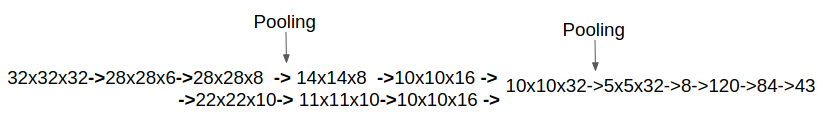
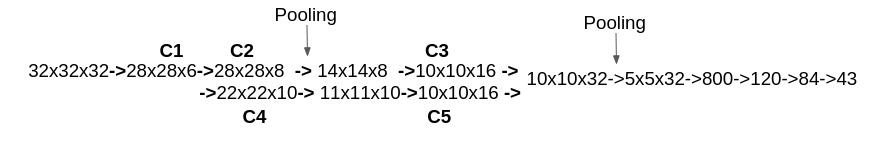
README update

diff --git a/README.md b/README.md
@@ -1,58 +1,174 @@
-## Project: Build a Traffic Sign Recognition Program
+
+# Traffic Sign Recognition
 [![Udacity - Self-Driving Car NanoDegree](https://s3.amazonaws.com/udacity-sdc/github/shield-carnd.svg)](http://www.udacity.com/drive)
 
-Overview
----
-In this project, you will use what you've learned about deep neural networks and convolutional neural networks to classify traffic signs. You will train and validate a model so it can classify traffic sign images using the [German Traffic Sign Dataset](http://benchmark.ini.rub.de/?section=gtsrb&subsection=dataset). After the model is trained, you will then try out your model on images of German traffic signs that you find on the web.
 
-We have included an Ipython notebook that contains further instructions 
-and starter code. Be sure to download the [Ipython notebook](https://github.com/udacity/CarND-Traffic-Sign-Classifier-Project/blob/master/Traffic_Sign_Classifier.ipynb). 
+## Project 3 (Self-Driving Car Engineer - Udacity)
 
-We also want you to create a detailed writeup of the project. Check out the [writeup template](https://github.com/udacity/CarND-Traffic-Sign-Classifier-Project/blob/master/writeup_template.md) for this project and use it as a starting point for creating your own writeup. The writeup can be either a markdown file or a pdf document.
 
-To meet specifications, the project will require submitting three files: 
-* the Ipython notebook with the code
-* the code exported as an html file
-* a writeup report either as a markdown or pdf file 
 
-Creating a Great Writeup
----
-A great writeup should include the [rubric points](https://review.udacity.com/#!/rubrics/481/view) as well as your description of how you addressed each point.  You should include a detailed description of the code used in each step (with line-number references and code snippets where necessary), and links to other supporting documents or external references.  You should include images in your writeup to demonstrate how your code works with examples.  
 
-All that said, please be concise!  We're not looking for you to write a book here, just a brief description of how you passed each rubric point, and references to the relevant code :). 
+**Build a Traffic Sign Recognition Project**
 
-You're not required to use markdown for your writeup.  If you use another method please just submit a pdf of your writeup.
-
-The Project
----
 The goals / steps of this project are the following:
-* Load the data set
+* Load the data set (see below for links to the project data set)
 * Explore, summarize and visualize the data set
 * Design, train and test a model architecture
 * Use the model to make predictions on new images
 * Analyze the softmax probabilities of the new images
 * Summarize the results with a written report
 
-### Dependencies
-This lab requires:
 
-* [CarND Term1 Starter Kit](https://github.com/udacity/CarND-Term1-Starter-Kit)
+[//]: # (Image References)
 
-The lab environment can be created with CarND Term1 Starter Kit. Click [here](https://github.com/udacity/CarND-Term1-Starter-Kit/blob/master/README.md) for the details.
+[image1]: ./exploratory.png "Visualization"
+[image2]: ./initial_histo.png "Initial Histogram"
+[image3]: ./augment.png "Augment"
+[image4]: ./final_histo.png "Final Histogram"
+[image5]: ./Architecture.png "Architecture"
+[image6]: ./examples/placeholder.png "Traffic Sign 3"
+[image7]: ./examples/placeholder.png "Traffic Sign 4"
+[image8]: ./examples/placeholder.png "Traffic Sign 5"
 
-### Dataset and Repository
+Here is a link to my [project code](./Traffic_Sign_Classifier.ipynb)
 
-1. Download the data set. The classroom has a link to the data set in the "Project Instructions" content. This is a pickled dataset in which we've already resized the images to 32x32. It contains a training, validation and test set.
-2. Clone the project, which contains the Ipython notebook and the writeup template.
-```sh
-git clone https://github.com/udacity/CarND-Traffic-Sign-Classifier-Project
-cd CarND-Traffic-Sign-Classifier-Project
-jupyter notebook Traffic_Sign_Classifier.ipynb
-```
+### Data Set Summary & Exploration
 
-### Requirements for Submission
-Follow the instructions in the `Traffic_Sign_Classifier.ipynb` notebook and write the project report using the writeup template as a guide, `writeup_template.md`. Submit the project code and writeup document.
+#### 1. Summary of the data set.
 
-## How to write a README
-A well written README file can enhance your project and portfolio.  Develop your abilities to create professional README files by completing [this free course](https://www.udacity.com/course/writing-readmes--ud777).
+The files provided contained training and validation datasets, initially: 
+
+* The size of training set is 34799
+* The size of the validation set is 12630
+* The shape of a traffic sign image (RGB) is (32, 32, 3) 
+* The number of unique classes/labels in the data set is 43
+
+#### 2. Include an exploratory visualization of the dataset.
+
+Here is an exploratory visualization of the data set. On top of each image you can see the label corresponding to the traffic sign, you can find the meaning of each one by looking at the file [signnames.csv][./signnames.csv]
+
+![alt text][image1]
+
+I plotted the initial distribution of the labels to verify how balanced they are. 
+
+![alt text][image1]
+
+
+### Design and Test a Model Architecture
+
+#### 1.  Image data preprocessing. 
+
+As a first step, I decided to balance the classes by applying data augmentation techniques as, flipping, rotation, saturation modification and light manipulation. The main idea behind this process is to have nearly 1500 images per label. Labels with less than 1500 images were augmented to reach that number 25% per each technique.
+Here is an example of a traffic sign image with different augmentation techniques.
+
+![alt text][image3]
+
+After applying the data aumentation, the histogram of the training set looks like this: 
+
+![alt text][image4]
+This step takes quite a lot of time since we're trying to have an equal number of samples per label.
+
+I tested a CNN architecture using RGB images and I realised I needed a larger network and hence the training time would be too much for my computer. So, I decided to convert the images to grayscale.
+
+As the last step, I normalized the image data to change the values of the images in the dataset to use a common scale, and have a distribution similar to a gaussian without distorting differences in the ranges of values or losing information.
+
+#### 2. Describe what your final model architecture looks like including model type, layers, layer sizes, connectivity, etc.) Consider including a diagram and/or table describing the final model.
+
+My final model consisted of the following layers:
+![alt text][image5]
+
+| Layer         		|     Description	        					| 
+|:---------------------:|:---------------------------------------------:| 
+| Input         		| 32x32x1 Gray image   							| 
+| C1 Convolution 5x5     | 1x1 stride, valid padding, outputs 28x28x6 	|
+| RELU					|		|
+|C2 Convolution 1x1 | 1x1 stride, valid padding, outputs 28x28x8 |
+|RELU
+| Max pooling	| 2x2 stride,  outputs 14x14x8 				|
+|C3 Convolution 5x5  | 1x1 stride, valid padding, outputs 10x10x16  | 
+| RELU |  |
+|C4 Convolution 7x7	| 1x1 stride, valid padding, outputs 22x22x10| |
+RELU||
+|Max pooling | 2x2 stride,  outputs 11x11x10|
+| C5  Convolution 2x2   | 1x1 stride, valid padding, outputs 10x10x16   |
+|RELU | |
+|Concatenation  | C5 and C3, outputs 10x10x32 |
+| Max pooling| 2x2 stride,  outputs 5x5x32 	|
+|Flatten| outputs 800|
+|Fully connected | outputs 120|
+|RELU|
+|Fully connected| outputs 84 |
+| Fully connected | outputs 43        									|
+| Softmax				|         								
+ 
+
+
+#### 3. Model training. The discussion can include the type of optimizer, the batch size, number of epochs and any hyperparameters such as learning rate.
+
+To train the model, I used an learning rate of 0.001 with and Adam Optimizer, based on literature Adam learns the fastes, while it is more stable than the other optimizers (it doesn’t suffer any major decreases in accuracy).
+
+
+
+
+
+#### 4. Describe the approach taken for finding a solution and getting the validation set accuracy to be at least 0.93. Include in the discussion the results on the training, validation and test sets and where in the code these were calculated. Your approach may have been an iterative process, in which case, outline the steps you took to get to the final solution and why you chose those steps. Perhaps your solution involved an already well known implementation or architecture. In this case, discuss why you think the architecture is suitable for the current problem.
+
+My final model results were:
+* training set accuracy of ?
+* validation set accuracy of ? 
+* test set accuracy of ?
+
+If an iterative approach was chosen:
+* What was the first architecture that was tried and why was it chosen?
+* What were some problems with the initial architecture?
+* How was the architecture adjusted and why was it adjusted? Typical adjustments could include choosing a different model architecture, adding or taking away layers (pooling, dropout, convolution, etc), using an activation function or changing the activation function. One common justification for adjusting an architecture would be due to overfitting or underfitting. A high accuracy on the training set but low accuracy on the validation set indicates over fitting; a low accuracy on both sets indicates under fitting.
+* Which parameters were tuned? How were they adjusted and why?
+* What are some of the important design choices and why were they chosen? For example, why might a convolution layer work well with this problem? How might a dropout layer help with creating a successful model?
+
+If a well known architecture was chosen:
+* What architecture was chosen?
+* Why did you believe it would be relevant to the traffic sign application?
+* How does the final model's accuracy on the training, validation and test set provide evidence that the model is working well?
+ 
+
+### Test a Model on New Images
+
+#### 1. Choose five German traffic signs found on the web and provide them in the report. For each image, discuss what quality or qualities might be difficult to classify.
+
+Here are five German traffic signs that I found on the web:
+
+![alt text][image4] ![alt text][image5] ![alt text][image6] 
+![alt text][image7] ![alt text][image8]
+
+The first image might be difficult to classify because ...
+
+#### 2. Discuss the model's predictions on these new traffic signs and compare the results to predicting on the test set. At a minimum, discuss what the predictions were, the accuracy on these new predictions, and compare the accuracy to the accuracy on the test set (OPTIONAL: Discuss the results in more detail as described in the "Stand Out Suggestions" part of the rubric).
+
+Here are the results of the prediction:
+
+| Image			        |     Prediction	        					| 
+|:---------------------:|:---------------------------------------------:| 
+| Stop Sign      		| Stop sign   									| 
+| U-turn     			| U-turn 										|
+| Yield					| Yield											|
+| 100 km/h	      		| Bumpy Road					 				|
+| Slippery Road			| Slippery Road      							|
+
+
+The model was able to correctly guess 4 of the 5 traffic signs, which gives an accuracy of 80%. This compares favorably to the accuracy on the test set of ...
+
+#### 3. Describe how certain the model is when predicting on each of the five new images by looking at the softmax probabilities for each prediction. Provide the top 5 softmax probabilities for each image along with the sign type of each probability. (OPTIONAL: as described in the "Stand Out Suggestions" part of the rubric, visualizations can also be provided such as bar charts)
+
+The code for making predictions on my final model is located in the 11th cell of the Ipython notebook.
+
+For the first image, the model is relatively sure that this is a stop sign (probability of 0.6), and the image does contain a stop sign. The top five soft max probabilities were
+
+| Probability         	|     Prediction	        					| 
+|:---------------------:|:---------------------------------------------:| 
+| .60         			| Stop sign   									| 
+| .20     				| U-turn 										|
+| .05					| Yield											|
+| .04	      			| Bumpy Road					 				|
+| .01				    | Slippery Road      							|
+
 
